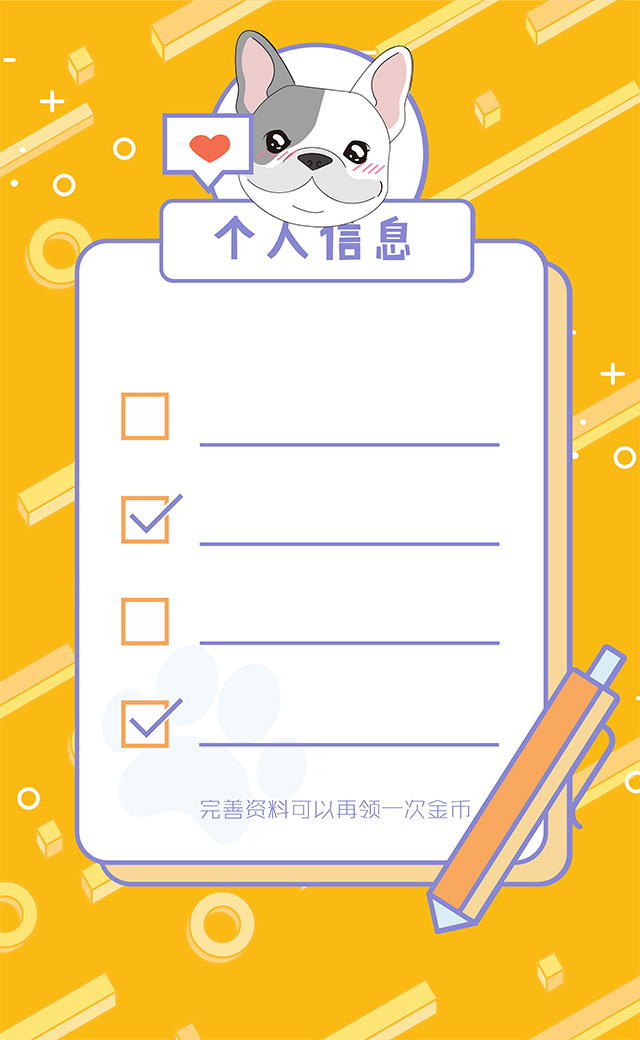
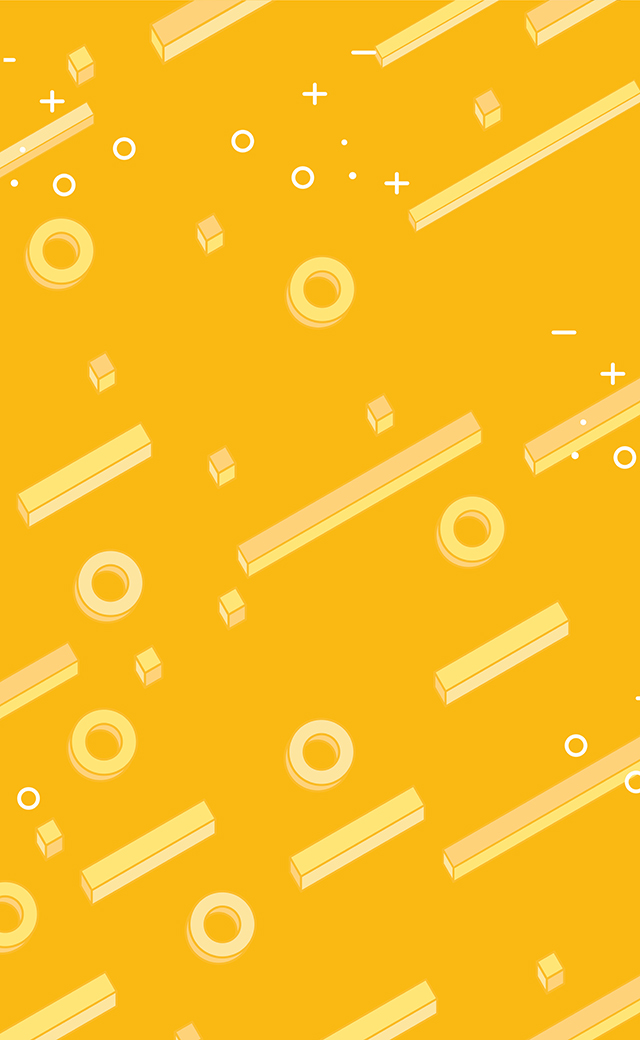
个人信息页增加微信头像

diff --git a/public/vip/css/personal_info.css b/public/vip/css/personal_info.css
@@ -10,6 +10,31 @@ body{
 	font-family: 'font1';
 	src: url('HYHeiLiZhiTiJ 1.ttf');
 }
+.pannel{
+    position: absolute;
+    left: 74px;
+    top: 60px;
+    width: 552px;
+}
+.avatar{
+    position: absolute;
+    left: -80px;
+    right: 0;
+    top: -20px;
+    margin: auto;
+    width: 230px;
+    height: 230px;
+    border-radius: 50%;
+}
+.love{
+    position: absolute;
+    left: 90px;
+    top: 70px;
+}
+.pannel_bg{
+    position: absolute;
+    top: 150px;
+}
 .nickName{
 	position: absolute;
 	top: 310px;

diff --git a/resources/views/shop/personal_info.blade.php b/resources/views/shop/personal_info.blade.php
@@ -10,6 +10,11 @@
 </head>
 <body>
 <img src="{{ asset('vip/images/personal_info/personal_info_bg.jpg') }}">
+<div class="pannel">
+    <img class="avatar" src="{{ asset('vip/images/personal_info/confirm.png') }}">
+    <img class="love" src="{{ asset('vip/images/personal_info/love.png') }}">
+    <img class="pannel_bg" src="{{ asset('vip/images/personal_info/pannel_bg.png') }}">
+</div>
 <div class="nickName">微信昵称：<span>{{ session('wechat.oauth_user')->nickname }}</span></div>
 <div class="info">
     <p>姓名:
